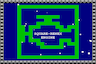
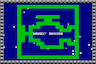
update renex² engine description

diff --git a/src/index.html b/src/index.html
@@ -130,7 +130,7 @@
                     <table>
                         <tr><td><img class="screenshot" src="images/mkf.png"/></td><td><a href="https://fusion-fangaming.itch.io/mushroom-kingdom-fusion" target="_blank">Mushroom Kingdom Fusion</a><br>An unofficial, non-profit Mario fan-game crossed over with many other video game franchises.</td></tr>
                         <tr><td><img class="screenshot" src="images/elp.png"/></td><td><a href="https://github.com/elpaudio/elpAudio/" target="_blank">ElpAudio</a><br>Simple audio player using FMOD.</td></tr>
-                        <tr><td><img class="screenshot" src="images/sre.png"/></td><td><a href="https://github.com/omicronrex/square-renex-engine" target="_blank">squarenex engine</a><br>A modern fork of various IWBTG engines, designed to utilize the new 8.2 features.</td></tr>
+                        <tr><td><img class="screenshot" src="images/sre.png"/></td><td><a href="https://github.com/omicronrex/renex2-engine" target="_blank">renex² engine</a><br>A modern fork of various IWBTG engines, designed to utilize the new 8.2 features.</td></tr>
                         <tr><td><img class="screenshot" src="images/wf.png"/></td><td><a href="https://cherry-treehouse.itch.io/wannafest22" target="_blank">WannaFest 22</a><br>Developed by Cherry Treehouse for Fangame Marathon 2022's Blind Adventure event, WannaFest 22 is a fast-paced rollercoaster through hidden gaming gems of the past!</td></tr>
                         <tr><td><img class="screenshot" src="images/guy.png"/></td><td><a href="https://cherry-treehouse.itch.io/iwbtgr" target="_blank">I Wanna Be The Guy Remastered</a><br>This is a faithful remaster of the original I Wanna Be The Guy, aiming to balance the spirit of the original game with the desire for consistent physics like the fangames that came after while fixing some of the jank.</td></tr>
                         <tr><td><img class="screenshot" src="images/sb.png"/></td><td><a href="https://boll-team.itch.io/boll-deluxe" target="_blank">Boll Deluxe</a><br>A crossover fan game with Mario and Sonic, in which you progress through Mario-styled levels as various Mario or Sonic characters (plus a couple of guests).</td></tr>
